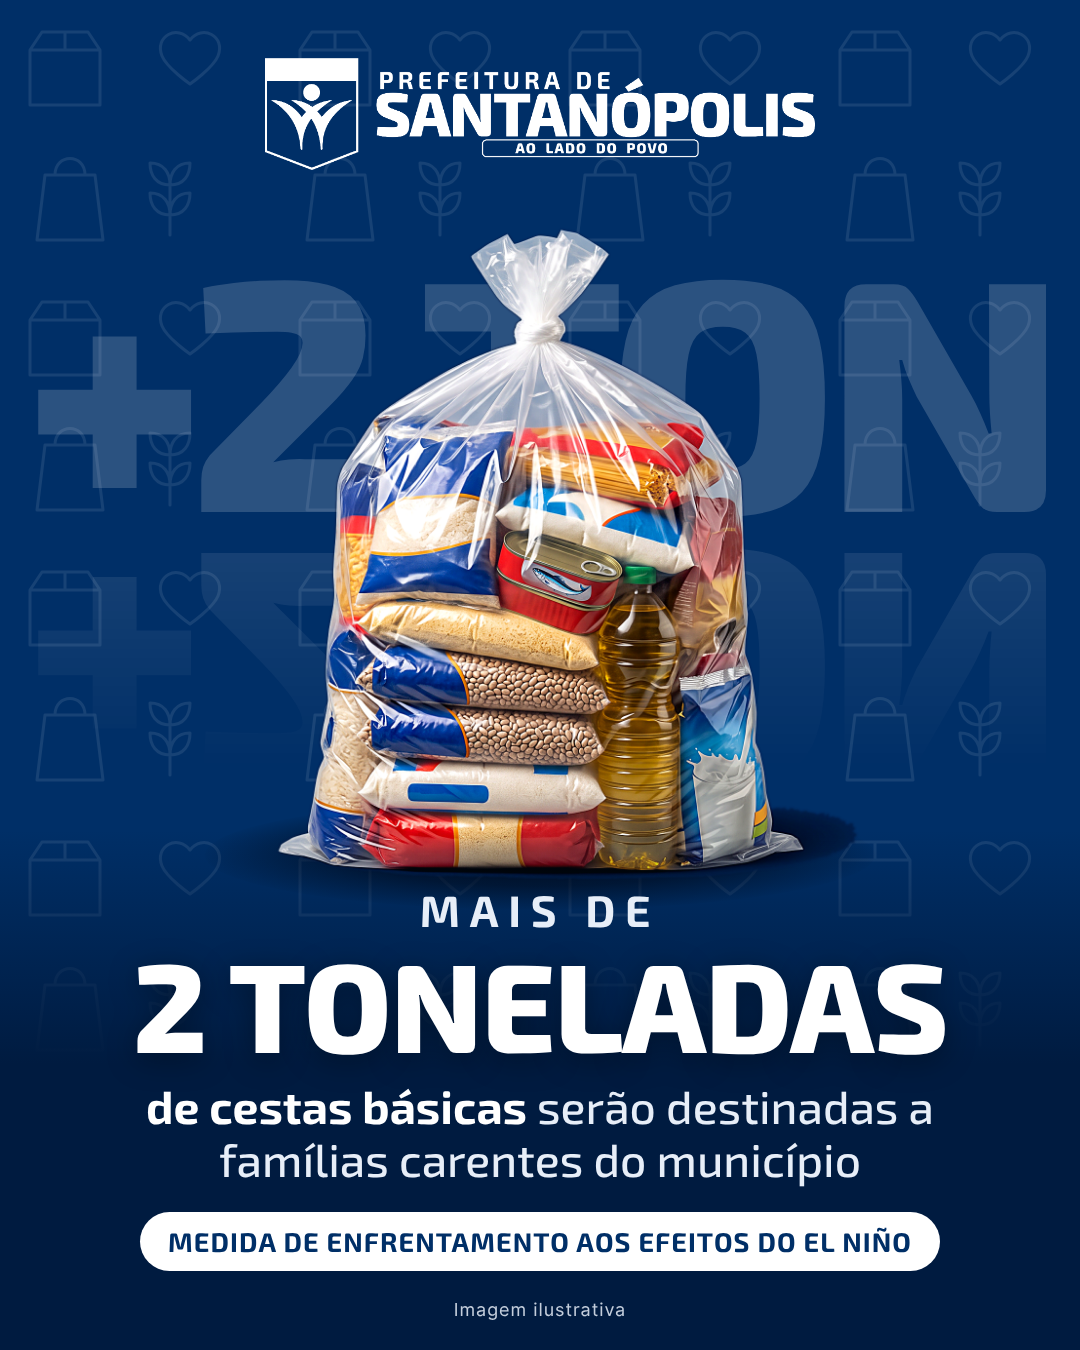
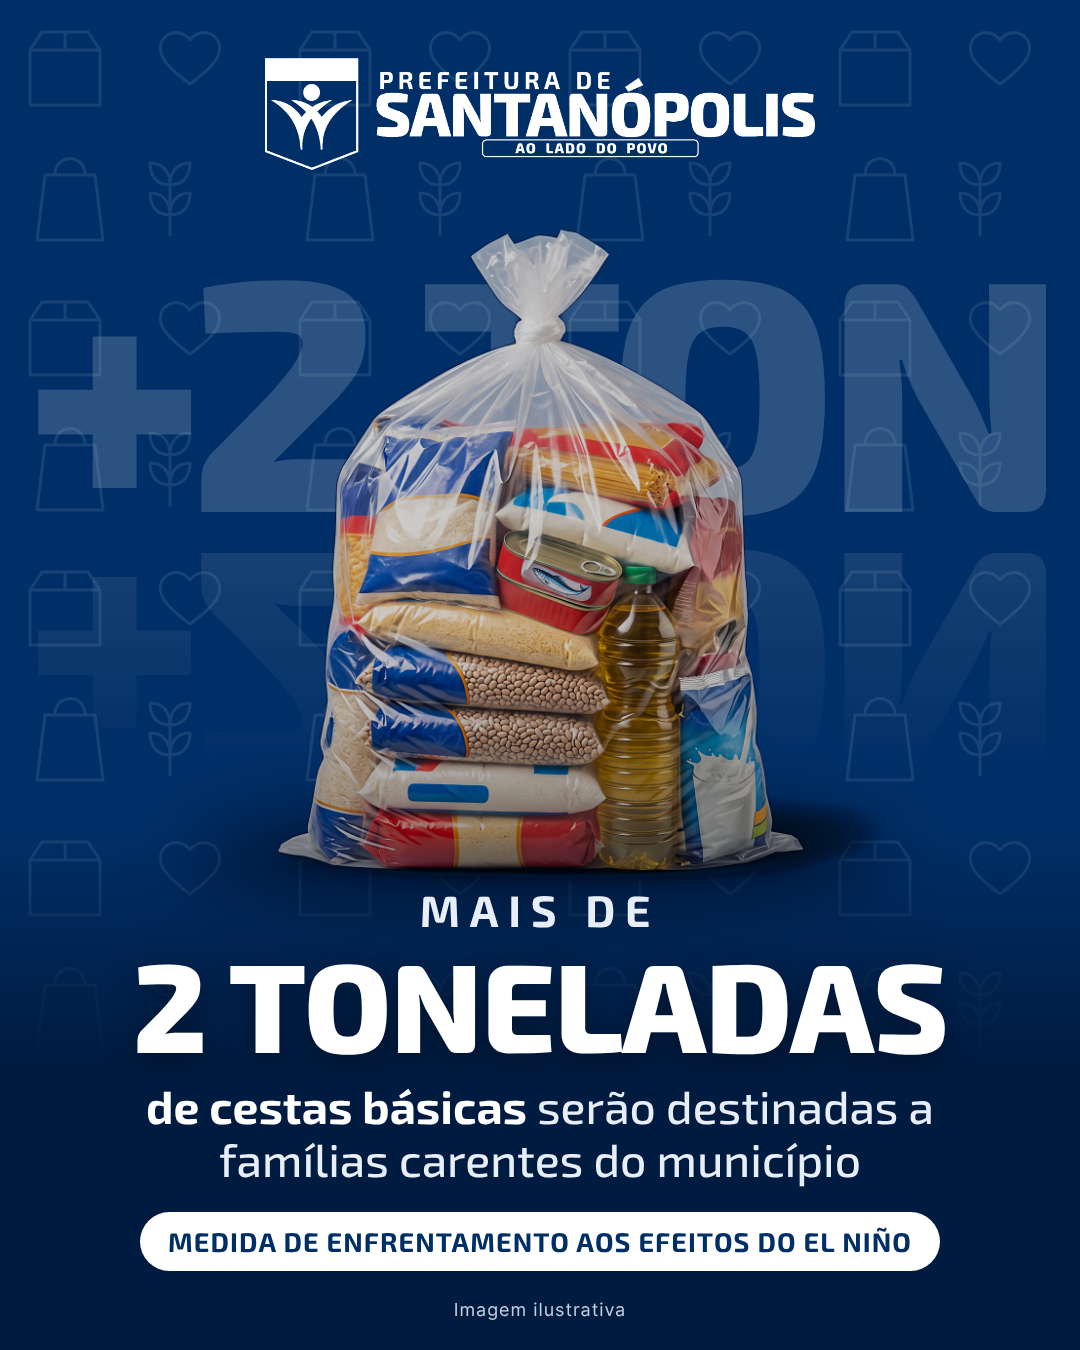
Prefeitura: card das cestas com recorte translúcido, luz equilibrada e sombra de contato
Claude-Session: https://claude.ai/code/session_01RAcsiCjxcoRFE1mKcnMpXn

Changed region(s): [[0.2444, 0.1556, 0.825, 0.6533]]

diff --git a/clientes/prefeitura-santanopolis/entregas/2026-11-12-cestas-basicas-el-nino/card.html b/clientes/prefeitura-santanopolis/entregas/2026-11-12-cestas-basicas-el-nino/card.html
@@ -11,7 +11,8 @@ body{width:1080px;height:1350px;position:relative;overflow:hidden;background:var
 .gigante{position:absolute;left:0;right:0;top:215px;text-align:center;font:800 330px/1 "Exo 2";letter-spacing:-.04em;color:rgba(255,255,255,.17);white-space:nowrap}
 .gigante.reflexo{top:520px;transform:scaleY(-1);color:rgba(255,255,255,.10);-webkit-mask-image:linear-gradient(to top,#000 0,transparent 75%)}
 .foto{position:absolute;left:150px;top:170px;width:780px;height:780px;background:url(../../fotos/social/2026-11-12-cesta-basica-saco-recortada-ia.png) center/cover}
-.sombra{position:absolute;left:205px;top:800px;width:670px;height:110px;border-radius:50%;background:radial-gradient(ellipse at center,rgba(0,4,14,.95) 0,rgba(0,4,14,.6) 40%,transparent 72%)}
+.sombra{position:absolute;left:190px;top:800px;width:700px;height:120px;border-radius:50%;background:rgba(0,8,26,.55);filter:blur(34px)}
+.contato{position:absolute;left:285px;top:838px;width:520px;height:36px;border-radius:50%;background:rgba(0,4,16,.9);filter:blur(12px)}
 .base{position:absolute;left:0;right:0;bottom:0;height:520px;background:linear-gradient(to top,#001B40 0,#001B40 55%,transparent 100%)}
 .texto{position:absolute;left:60px;right:60px;top:888px;text-align:center}
 .mais{font:700 44px/1 "Exo 2";letter-spacing:.22em;color:var(--tinta)}
@@ -24,7 +25,7 @@ footer small{font:400 18px Inter;opacity:.85}
 </style>
 <div class="padrao"></div>
 <div class="gigante">+2 TON</div><div class="gigante reflexo">+2 TON</div>
-<div class="sombra"></div><div class="foto"></div>
+<div class="sombra"></div><div class="contato"></div><div class="foto"></div>
 <div class="base"></div>
 <div class="logo"><img src="../../identidade/logo-prefeitura-branco.png" alt=""></div>
 <div class="texto">
